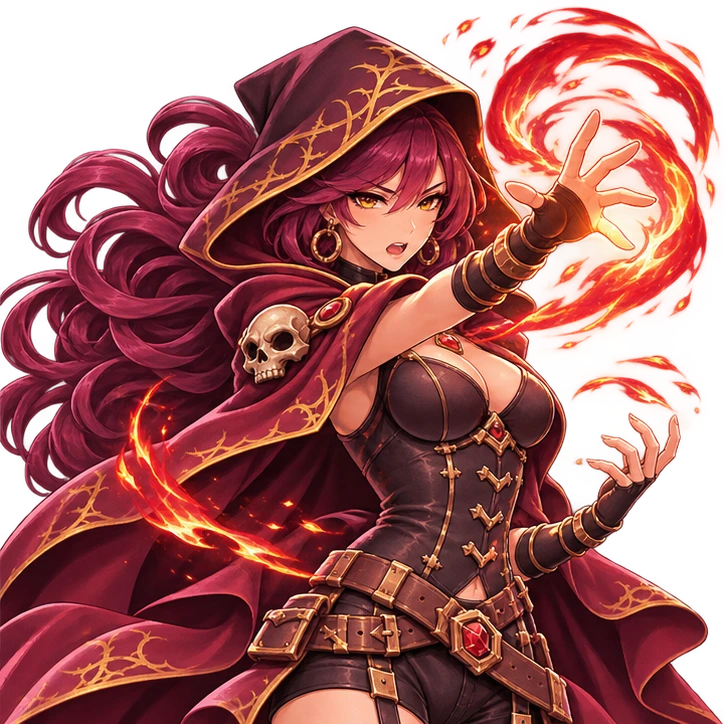
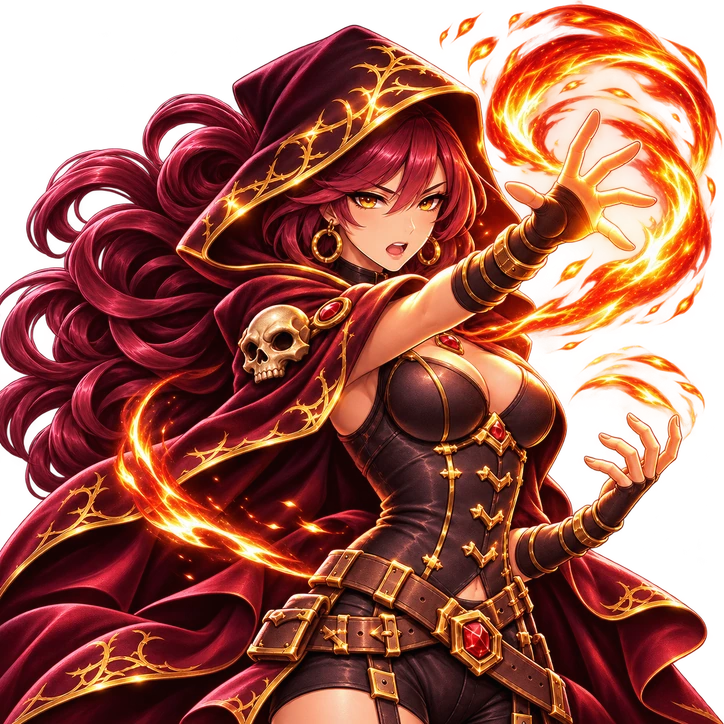
Mejora las ilustraciones de los atuendos de héroes

diff --git a/src/styles/customize.css b/src/styles/customize.css
@@ -853,8 +853,8 @@
     inset: 0;
     z-index: var(--z-top);
     display: grid;
-    grid-template-rows: 1fr auto;
-    overflow: hidden;
+    grid-template-rows: minmax(0, 1fr) auto;
+    overflow: clip;
     background: #05040a;
     color: #f1ecff;
     animation: os-in 0.35s ease both;
@@ -866,6 +866,7 @@
   }
   .os-bg {
     inset: 0;
+    overflow: clip;
     background:
       radial-gradient(ellipse 80% 60% at 50% 105%, color-mix(in srgb, var(--accent) 38%, #12081c) 0, transparent 70%),
       radial-gradient(ellipse 70% 50% at 50% -10%, #1c1032 0, transparent 70%),
@@ -910,11 +911,12 @@
     margin: 0;
     padding: clamp(40px, 7dvh, 64px) 16px 0;
     min-height: 0;
+    container-type: size;
   }
   .os-art {
     display: block;
-    max-width: min(94vw, 520px);
-    max-height: 100%;
+    width: min(100cqw, 100cqh, 520px);
+    height: auto;
     object-fit: contain;
     filter: drop-shadow(0 0 28px color-mix(in srgb, var(--accent) 55%, transparent)) drop-shadow(0 12px 22px #000b);
     -webkit-mask-image: none;
@@ -1738,7 +1740,7 @@
     opacity: 1;
     filter: saturate(0.55) brightness(0.78);
   }
-  #menu .custom-catalog .outfit-card.locked .outfit-art img {
+  #menu .custom-catalog .outfit-card.locked:where(:not(.r-epic, .r-legendary)) .outfit-art img {
     filter: brightness(0.55) saturate(0.45);
   }
   #menu .custom-catalog .ach-shop-card.locked:is(.r-epic, .r-legendary) .ach-shop-art {
@@ -2005,7 +2007,7 @@
     filter: drop-shadow(0 0 10px color-mix(in srgb, #ffb347 60%, transparent));
   }
   .outfit-card.r-legendary.locked .outfit-art img {
-    filter: brightness(0.6) saturate(0.6) drop-shadow(0 0 10px color-mix(in srgb, #ffb347 50%, transparent));
+    filter: brightness(0.83) saturate(0.92) drop-shadow(0 0 10px color-mix(in srgb, #ffb347 50%, transparent));
   }
   .os-bg .lg-storm .lg-ring {
     width: min(120vmin, 900px);
@@ -2019,9 +2021,6 @@
     left: 58%;
     width: 9%;
     height: 46%;
-  }
-  .outfit-show-ov.r-legendary.is-locked .os-art {
-    filter: brightness(0.72) saturate(0.7) drop-shadow(0 0 26px #ffb34788) drop-shadow(0 12px 22px #000b);
   }
   .outfit-show-ov.r-legendary .os-art {
     filter: drop-shadow(0 0 34px #ffb347cc) drop-shadow(0 12px 22px #000b);
@@ -2166,7 +2165,7 @@
     filter: drop-shadow(0 0 9px #b585ff88);
   }
   .outfit-card.r-epic.locked .outfit-art img {
-    filter: brightness(0.6) saturate(0.6) drop-shadow(0 0 9px #b585ff66);
+    filter: brightness(0.83) saturate(0.92) drop-shadow(0 0 9px #b585ff66);
   }
   .outfit-show-ov.r-epic .os-bg {
     background:
@@ -2188,9 +2187,6 @@
   }
   .outfit-show-ov.r-epic .os-art {
     filter: drop-shadow(0 0 30px #b585ffaa) drop-shadow(0 12px 22px #000b);
-  }
-  .outfit-show-ov.r-epic.is-locked .os-art {
-    filter: brightness(0.72) saturate(0.7) drop-shadow(0 0 24px #b585ff77) drop-shadow(0 12px 22px #000b);
   }
   @media (prefers-reduced-motion: no-preference) {
     .ep-nebula {

diff --git a/src/game/achievements.js b/src/game/achievements.js
@@ -619,18 +619,18 @@ export function setOutfit(store, hero, id) {
   return true;
 }
 
-/** Imagen de un atuendo: `adv` cuerpo entero (aventura), `sel` busto y `act` pose (selección). */
+/** Imagen de un atuendo: `adv` cuerpo entero, `sel` retrato pasivo y `act` retrato de combate. */
 /** Versión de cada traje en la URL (la caché del service worker es por URL): se sube al cambiar sus imágenes. */
 const OUTFIT_ART_REV = {
-  'lia:capitana': 4,
-  'lia:ingeniera': 4,
-  'lia:brasas': 5,
-  'jean:vigia': 4,
-  'jean:sakura': 4,
-  'jean:oni': 4,
-  'van:escriba': 4,
-  'van:carmesi': 4,
-  'van:cuervos': 4,
+  'lia:capitana': 5,
+  'lia:ingeniera': 5,
+  'lia:brasas': 6,
+  'jean:vigia': 5,
+  'jean:sakura': 5,
+  'jean:oni': 5,
+  'van:escriba': 5,
+  'van:carmesi': 5,
+  'van:cuervos': 5,
 };
 export const outfitArt = (hero, id, pose) =>
   `imagenes/atuendo-${hero}-${id}-${pose}.webp?v=${OUTFIT_ART_REV[`${hero}:${id}`] || 3}`;

diff --git a/tests/ui/achievements.test.js b/tests/ui/achievements.test.js
@@ -50,7 +50,14 @@ it('Personalizar: está en el menú principal, solo muestra los cosméticos sele
   panel.querySelector('[data-outfit-show="jean:sakura"]').click();
   const show = document.querySelector('.outfit-show-ov');
   expect(show).toBeTruthy();
+  expect([...show.querySelectorAll('[data-os-pose]')].map((tab) => tab.textContent)).toEqual([
+    'Cuerpo entero',
+    'Pasiva',
+    'Combate',
+  ]);
   expect(show.querySelector('.os-art').getAttribute('src')).toContain('jean-sakura-adv');
+  show.querySelector('[data-os-pose="sel"]').click();
+  expect(show.querySelector('.os-art').getAttribute('src')).toContain('jean-sakura-sel');
   show.querySelector('[data-os-pose="act"]').click();
   expect(show.querySelector('.os-art').getAttribute('src')).toContain('jean-sakura-act');
   expect(show.classList.contains('is-locked')).toBe(true); // aún no lo tienes: muestra qué falta

diff --git a/src/ui/story.js b/src/ui/story.js
@@ -4,7 +4,7 @@ import { outfitArt, outfitOf } from '../game/achievements.js';
 import { heroOf, store } from '../state.js';
 import { mountOutfitFx } from './outfit-fx.js';
 
-/** Imagen del atuendo puesto (`adv` aventura, `sel` busto y `act` pose de selección). */
+/** Imagen del atuendo puesto (`adv` cuerpo entero, `sel` pose pasiva, `act` pose de combate). */
 export const outfitImg = (id, pose) => outfitArt(id, outfitOf(store, id), pose);
 
 export function endingStory(victory, id) {

diff --git a/src/i18n/en-game.js b/src/i18n/en-game.js
@@ -563,6 +563,9 @@ export const EN_GAME = {
   'Mostrar atuendo': 'Show outfit',
   Selección: 'Selection',
   Pose: 'Pose',
+  'Cuerpo entero': 'Full body',
+  Pasiva: 'Idle',
+  Combate: 'Combat',
   Bloqueado: 'Locked',
   'Hojas de otoño': 'Autumn leaves',
   'Confeti de fiesta': 'Party confetti',

diff --git a/src/i18n/zh-game.js b/src/i18n/zh-game.js
@@ -542,6 +542,9 @@ export const ZH_GAME = {
   'Mostrar atuendo': '展示服装',
   Selección: '选择',
   Pose: '姿势',
+  'Cuerpo entero': '全身',
+  Pasiva: '待机',
+  Combate: '战斗',
   Bloqueado: '未解锁',
   'Hojas de otoño': '秋叶',
   'Confeti de fiesta': '派对彩纸',

diff --git a/src/ui/achievements.js b/src/ui/achievements.js
@@ -431,9 +431,9 @@ function openPreview(type, id) {
 
 /* ---------- Visor de atuendos ---------- */
 const POSES = [
-  ['adv', 'Aventura'],
-  ['sel', 'Selección'],
-  ['act', 'Pose'],
+  ['adv', 'Cuerpo entero'],
+  ['sel', 'Pasiva'],
+  ['act', 'Combate'],
 ];
 let showcase = null;
 
